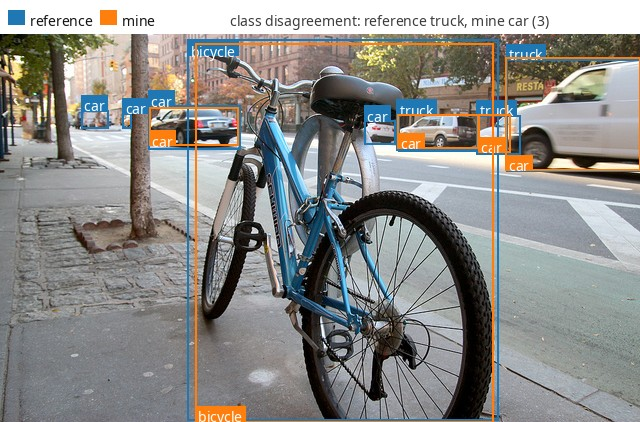
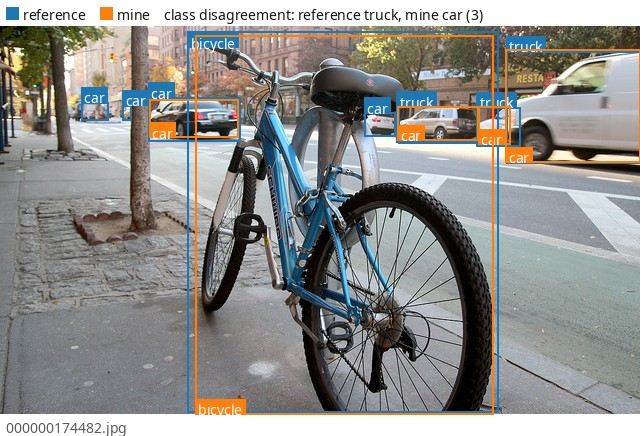
Adopt the shared demonstration frame
annotation/chrome.py is ported verbatim from polygon-annotation-agreement,
where the frame is defined: swatch and label per side, case numbers in the
header, frame name in the footer.

What changes here: the figures gain a footer naming the frame, so a picture
saved on its own says which frame it is. The font and colour boilerplate
moved into chrome.py. The legend sentence above the gallery is now the same
sentence used by all five stages.

Figures regenerated; the frames chosen and every metric are unchanged.

Claude-Session: https://claude.ai/code/session_017ughEABcYgoJcSavLjH6Ju

diff --git a/annotation/chrome.py b/annotation/chrome.py
@@ -1,0 +1,163 @@
+# Ported unchanged from polygon-annotation-agreement/tools/chrome.py --
+# the demonstration frame is the same across every stage of the portfolio.
+#!/usr/bin/env python3
+"""The frame around a demonstration picture: header, swatches, footer.
+
+Every picture of a disagreement in this portfolio carries the same frame, so
+that it can be read on its own -- saved, pasted into a message, or opened years
+later without the README next to it. The frame answers three questions before
+the reader looks at the picture:
+
+    which colour is the reference and which is mine   -- the swatches
+    what the numbers of this case are                 -- the header facts
+    which frame this is                               -- the footer
+
+Two layouts, one rule. With an overlay both swatches sit side by side in the
+header. With two panels the swatch sits over its own panel, so colour and side
+are named together rather than instead of each other.
+
+The colours are the matplotlib tab10 blue and orange. They are fixed here and
+not passed in: a demonstration where blue means the reference in one repository
+and something else in another is worse than no legend at all.
+"""
+
+from pathlib import Path
+
+from PIL import Image, ImageDraw, ImageFont
+
+REF_COLOR = (31, 119, 180)      # blue: the reference annotation
+MINE_COLOR = (255, 127, 14)     # orange: mine
+
+BAR_H = 26                      # header
+FOOT_H = 22                     # footer
+BAR_BG = (255, 255, 255)
+BAR_FG = (20, 20, 20)
+FOOT_FG = (90, 90, 90)
+SWATCH = 12
+PAD = 6
+
+REF_LABEL = "reference"
+MINE_LABEL = "mine"
+
+FONT_CANDIDATES = [
+    "/usr/share/fonts/TTF/DejaVuSans.ttf",
+    "/usr/share/fonts/truetype/dejavu/DejaVuSans.ttf",
+    "/usr/share/fonts/dejavu/DejaVuSans.ttf",
+    "/usr/share/fonts/noto/NotoSans-Regular.ttf",
+    "/usr/share/fonts/liberation/LiberationSans-Regular.ttf",
+    "/usr/share/fonts/truetype/liberation/LiberationSans-Regular.ttf",
+]
+
+
+def load_font(size: int = 14):
+    """A TrueType font of the requested size, or the built-in default.
+
+    The bitmap font built into Pillow ignores the size argument and comes out
+    too small to read once GitHub scales the picture down.
+    """
+    for path in FONT_CANDIDATES:
+        if Path(path).exists():
+            try:
+                return ImageFont.truetype(path, size)
+            except OSError:
+                continue
+    for path in sorted(Path("/usr/share/fonts").rglob("*.ttf")):
+        try:
+            return ImageFont.truetype(str(path), size)
+        except OSError:
+            continue
+    return ImageFont.load_default()
+
+
+def text_width(draw: ImageDraw.ImageDraw, text: str, font) -> int:
+    box = draw.textbbox((0, 0), text, font=font)
+    return box[2] - box[0]
+
+
+def legend(draw: ImageDraw.ImageDraw, x: int, y: int, font,
+           ref_label: str = REF_LABEL, mine_label: str = MINE_LABEL) -> int:
+    """One swatch-and-label pair per side. Returns the x after the last label."""
+    for color, label in ((REF_COLOR, ref_label), (MINE_COLOR, mine_label)):
+        draw.rectangle([x, y, x + SWATCH, y + SWATCH], fill=color)
+        x += SWATCH + 5
+        draw.text((x, y - 2), label, fill=BAR_FG, font=font)
+        x += text_width(draw, label, font) + 14
+    return x
+
+
+def with_chrome(image: Image.Image, facts: str = "", footer: str = "",
+                panels: int = 1, gutter: int = 8, font=None,
+                upscale: bool = False,
+                ref_label: str = REF_LABEL, mine_label: str = MINE_LABEL):
+    """A white canvas of header + image + footer, with the frame drawn on it.
+
+    panels=1  the image is pasted once and both swatches sit in the header;
+    panels=2  the image is pasted twice side by side and each panel gets its
+              own swatch above it -- the caller draws the reference on the left
+              and mine on the right.
+
+    ref_label / mine_label extend the two labels where the side carries more
+    than its name -- a transcription, say. The swatch still comes first, so the
+    colour and what it stands for are read together.
+
+    upscale=True enlarges an image narrower than its own legend so that it
+    fills the canvas instead of sitting in a corner of white space. Only for
+    pictures already drawn on: it invalidates the returned offsets, so callers
+    that keep drawing afterwards must leave it off.
+
+    Returns (canvas, draw, top, panel_width). `top` is the y offset of the image
+    area: the caller keeps drawing in image coordinates shifted by it. With two
+    panels the right one starts at `panel_width + gutter`.
+    """
+    if panels not in (1, 2):
+        raise ValueError("panels must be 1 or 2")
+    font = font or load_font()
+    w, h = image.width, image.height
+    total_w = w * panels + gutter * (panels - 1)
+
+    # A crop can be narrower than its own legend. Widening the canvas is the
+    # only option that keeps the legend readable: shrinking the text defeats
+    # the purpose, and dropping it takes the picture back to "which colour is
+    # which?", which is exactly what this frame exists to answer.
+    probe = ImageDraw.Draw(Image.new("RGB", (1, 1)))
+    needed = PAD * 2
+    for label in (ref_label, mine_label):
+        needed += SWATCH + 5 + text_width(probe, label, font) + 14
+    if facts:
+        needed += text_width(probe, facts, font)
+    if footer:
+        needed = max(needed, PAD * 2 + text_width(probe, footer, font))
+    if needed > total_w and upscale:
+        # A crop is meant to be looked at closely anyway -- a 30 px contour
+        # cannot be judged at native size. Growing it to the legend width
+        # costs nothing and removes the white margin.
+        factor = needed / total_w
+        w, h = int(w * factor), int(h * factor)
+        image = image.resize((w, h), Image.LANCZOS)
+        total_w = w * panels + gutter * (panels - 1)
+    total_w = max(total_w, needed)
+
+    canvas = Image.new("RGB", (total_w, BAR_H + h + FOOT_H), BAR_BG)
+    for i in range(panels):
+        canvas.paste(image, (i * (w + gutter), BAR_H))
+    draw = ImageDraw.Draw(canvas)
+
+    y = (BAR_H - SWATCH) // 2
+    if panels == 1:
+        x = legend(draw, PAD, y, font, ref_label, mine_label)
+        if facts:
+            draw.text((x, y - 2), facts, fill=BAR_FG, font=font)
+    else:
+        for i, (color, label) in enumerate(((REF_COLOR, ref_label),
+                                            (MINE_COLOR, mine_label))):
+            x = i * (w + gutter) + PAD
+            draw.rectangle([x, y, x + SWATCH, y + SWATCH], fill=color)
+            draw.text((x + SWATCH + 5, y - 2), label, fill=BAR_FG, font=font)
+        if facts:
+            x = PAD + SWATCH + 5 + text_width(draw, ref_label, font) + 14
+            draw.text((x, y - 2), facts, fill=BAR_FG, font=font)
+
+    if footer:
+        draw.text((PAD, BAR_H + h + (FOOT_H - 13) // 2), footer,
+                  fill=FOOT_FG, font=font)
+    return canvas, draw, BAR_H, w

diff --git a/annotation/make_figures.py b/annotation/make_figures.py
@@ -14,54 +14,21 @@ cases of the kind in question.
 import argparse
 from pathlib import Path
 
-from PIL import Image, ImageDraw, ImageFont
+from PIL import Image, ImageDraw
 
 from agreement import match_frame
 from boxes import CLASSES, iou, load_coco
+from chrome import MINE_COLOR, REF_COLOR, load_font, with_chrome
 
-REF_COLOR = (31, 119, 180)        # the COCO reference
-MINE_COLOR = (255, 127, 14)       # mine
 HIGHLIGHT_COLOR = (214, 39, 40)   # the case under review
-BAR_H = 34
-
-FONT_CANDIDATES = [
-    "/usr/share/fonts/TTF/DejaVuSans.ttf",
-    "/usr/share/fonts/truetype/dejavu/DejaVuSans.ttf",
-    "/usr/share/fonts/dejavu/DejaVuSans.ttf",
-    "/usr/share/fonts/noto/NotoSans-Regular.ttf",
-    "/usr/share/fonts/liberation/LiberationSans-Regular.ttf",
-]
-
-
-def _font(size: int):
-    """A TrueType font is needed: the bitmap font built into Pillow ignores
-    the size argument and draws captions too small to read."""
-    for path in FONT_CANDIDATES:
-        if Path(path).exists():
-            return ImageFont.truetype(path, size)
-    for path in sorted(Path("/usr/share/fonts").rglob("*.ttf")):
-        try:
-            font = ImageFont.truetype(str(path), size)
-            if font.getmask("Ag").getbbox():  # the font actually renders
-                return font
-        except OSError:
-            continue
-    raise SystemExit("no TrueType font found -- install ttf-dejavu")
 
 
 def draw_frame(image_path: Path, mine, ref, caption: str, out_path: Path,
                highlight=()) -> None:
     img = Image.open(image_path).convert("RGB")
-    canvas = Image.new("RGB", (img.width, img.height + BAR_H), (255, 255, 255))
-    canvas.paste(img, (0, BAR_H))
-    draw = ImageDraw.Draw(canvas)
-    font = _font(14)
-
-    draw.rectangle([8, 10, 24, 24], fill=REF_COLOR)
-    draw.text((30, 11), "reference", fill=(20, 20, 20), font=font)
-    draw.rectangle([100, 10, 116, 24], fill=MINE_COLOR)
-    draw.text((122, 11), "mine", fill=(20, 20, 20), font=font)
-    draw.text((230, 11), caption, fill=(60, 60, 60), font=font)
+    font = load_font(14)
+    canvas, draw, BAR_H, _ = with_chrome(img, facts=caption,
+                                         footer=image_path.name, font=font)
 
     # reference labels go above the box and mine below its bottom edge: when
     # both boxes sit on one object they nearly coincide, and one label would

diff --git a/README.md b/README.md
@@ -82,7 +82,8 @@ by agreeing the convention before the work starts, never by re-annotating afterw
 
 ## The worst frames
 
-Blue is the COCO reference, orange is mine. Frames are picked automatically: for each kind
+Every picture carries its own legend: a blue swatch for the reference, an orange one for mine, the numbers of the case beside them and the frame name underneath.
+Frames are picked automatically: for each kind
 of disagreement, the one holding the most cases of it.
 
 ### The boundary drifted
